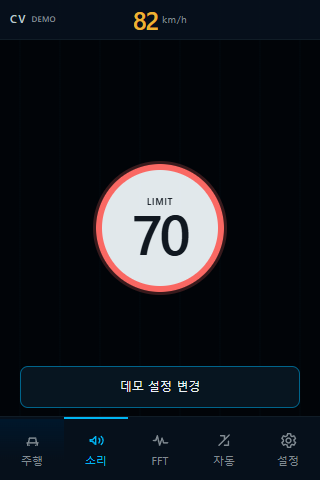
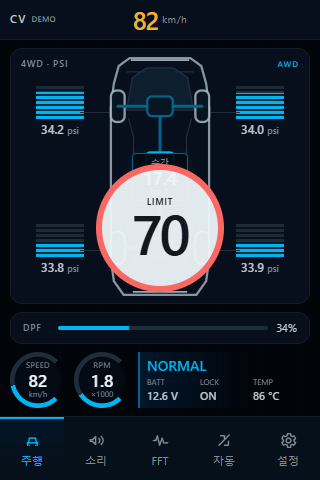
fix: revoke SPORT ownership across gaps and align evidence contracts

diff --git a/tests/automation/test_automation_regressions.c b/tests/automation/test_automation_regressions.c
@@ -3,6 +3,7 @@
 
 #include <assert.h>
 #include <stdio.h>
+#include <stdlib.h>
 #include "automation_test_ticks.h"
 #include <string.h>
 
@@ -437,6 +438,48 @@ static void test_sport_ownership(void)
     assert(output.action == CANVIEW_SPORT_ACTION_NONE);
 }
 
+static void test_sport_gap_revocation(void)
+{
+    const uint32_t gaps[] = {100U, 250U, 251U, 5000U, UINT32_MAX};
+    const canview_drive_mode_t external_modes[] = {
+        CANVIEW_DRIVE_MODE_NORMAL, CANVIEW_DRIVE_MODE_ECO,
+        CANVIEW_DRIVE_MODE_COMFORT, CANVIEW_DRIVE_MODE_SMART,
+    };
+    const canview_auto_sport_config_t config = canview_auto_sport_default_config();
+    for (size_t gap = 0U; gap < sizeof(gaps) / sizeof(gaps[0]); ++gap) {
+        for (size_t mode = 0U; mode < sizeof(external_modes) / sizeof(external_modes[0]); ++mode) {
+            canview_auto_sport_state_t state = {0};
+            canview_auto_sport_input_t input = sport_input();
+            /* 임의 state 주입 없이 ECO에서 정상 진입·feedback으로 소유권을 얻는다. */
+            canview_auto_sport_output_t output =
+                sport_update_for(&state, &config, &input, config.speed_confirm_ms);
+            assert(output.action == CANVIEW_SPORT_ACTION_ENTER);
+            input.current_mode = CANVIEW_DRIVE_MODE_SPORT;
+            output = canview_auto_sport_update(&state, &config, &input, 100U);
+            assert(output.status == CANVIEW_SPORT_ACTIVE);
+            assert(state.owns_sport_mode);
+            assert(state.previous_mode == CANVIEW_DRIVE_MODE_ECO);
+
+            /* 권한 철회는 gap에서도 유효하다. 물리 버튼 이벤트는 누락시킨다. */
+            input.current_mode = external_modes[mode];
+            output = canview_auto_sport_update(&state, &config, &input, gaps[gap]);
+            assert(output.status == CANVIEW_SPORT_MANUAL_HOLD);
+            assert(output.action == CANVIEW_SPORT_ACTION_NONE);
+            assert(!state.owns_sport_mode);
+            assert(state.previous_mode == CANVIEW_DRIVE_MODE_UNKNOWN);
+            input.current_mode = CANVIEW_DRIVE_MODE_SPORT;
+            input.enabled = false;
+            output = canview_auto_sport_update(&state, &config, &input, 100U);
+            assert(output.action == CANVIEW_SPORT_ACTION_NONE);
+            assert(!state.owns_sport_mode);
+            input.enabled = true;
+            output = sport_update_for(&state, &config, &input, config.exit_confirm_ms);
+            assert(output.action == CANVIEW_SPORT_ACTION_NONE);
+            assert(!state.owns_sport_mode);
+        }
+    }
+}
+
 static void test_time_gaps(void)
 {
     const uint32_t gaps[] = {251U, 5000U, UINT32_MAX};
@@ -531,6 +574,11 @@ typedef struct {
 
 int main(int argc, char **argv)
 {
+#ifdef _MSC_VER
+    /* Windows headless CI에서도 실패를 stderr로 기록하고 dialog에서 멈추지 않는다. */
+    (void)_set_error_mode(_OUT_TO_STDERR);
+    (void)_set_abort_behavior(0U, _WRITE_ABORT_MSG | _CALL_REPORTFAULT);
+#endif
     static const regression_case_t cases[] = {
         {"brightness-stale", test_stale_base},
         {"brightness-ramp", test_stale_warning_restore_ramp},
@@ -540,6 +588,7 @@ int main(int argc, char **argv)
         {"headlamp-freshness", test_headlamp_freshness},
         {"sport-feedback", test_sport_feedback},
         {"sport-ownership", test_sport_ownership},
+        {"sport-gap-revocation", test_sport_gap_revocation},
         {"automation-time-gap", test_time_gaps},
         {"command-double-ack", test_command_double_ack},
     };

diff --git a/ui/lvgl/canview_ui.c b/ui/lvgl/canview_ui.c
@@ -1276,10 +1276,10 @@ static void render_overlays(void)
                        ui.model.speed_limit_kph > 0U && ui.model.speed_limit_kph <= 240U;
     const bool warning = limit && speed_valid() && ui.model.speed_limit_warning_active;
     const bool lights = ui.model.headlamp_warning_active && !warning;
-    const bool prominent = drive && warning;
-    lv_obj_set_pos(ui.speed_limit_overlay, prominent ? 96 : 252, prominent ? 156 : 50);
-    lv_obj_set_size(ui.speed_limit_overlay, prominent ? 128 : 56, prominent ? 128 : 56);
-    lv_obj_set_style_border_width(ui.speed_limit_overlay, prominent ? 6 : 4, 0);
+    const bool prominent = warning;
+    lv_obj_set_pos(ui.speed_limit_overlay, prominent ? 96 : 272, prominent ? 156 : 0);
+    lv_obj_set_size(ui.speed_limit_overlay, prominent ? 128 : 36, prominent ? 128 : 36);
+    lv_obj_set_style_border_width(ui.speed_limit_overlay, prominent ? 6 : 3, 0);
     /* 작은 표지에는 숫자만 두어 LIMIT/3자리 수치가 겹치지 않는다. */
     if (prominent) {
         lv_obj_clear_flag(ui.speed_limit_caption, LV_OBJ_FLAG_HIDDEN);
@@ -1300,11 +1300,12 @@ static void render_overlays(void)
     const lv_opa_t opacity = drive ? LV_OPA_COVER : LV_OPA_60;
     lv_obj_set_style_opa(ui.speed_limit_overlay,
         warning && !ui.model.speed_limit_warning_visible ? LV_OPA_30 : opacity, 0);
-    lv_obj_set_pos(ui.headlamp_warning_overlay, drive ? 96 : 212, drive ? 156 : 112);
-    lv_obj_set_size(ui.headlamp_warning_overlay, drive ? 128 : 96, drive ? 128 : 48);
-    lv_obj_set_style_border_width(ui.headlamp_warning_overlay, drive ? 6 : 2, 0);
+    /* 경고는 어느 탭에서도 같은 중앙 면적을 사용하고 touch만 통과시킨다. */
+    lv_obj_set_pos(ui.headlamp_warning_overlay, 96, 156);
+    lv_obj_set_size(ui.headlamp_warning_overlay, 128, 128);
+    lv_obj_set_style_border_width(ui.headlamp_warning_overlay, 6, 0);
     lv_obj_set_style_text_font(ui.headlamp_warning_label,
-        drive && ui.config.metric_font != NULL ? ui.config.metric_font :
+        ui.config.metric_font != NULL ? ui.config.metric_font :
         ui.config.font != NULL ? ui.config.font : LV_FONT_DEFAULT, 0);
     lv_obj_set_style_opa(ui.headlamp_warning_overlay, opacity, 0);
     if (lights) {
@@ -1314,6 +1315,12 @@ static void render_overlays(void)
     }
     lv_obj_set_style_text_color(ui.header_speed_label,
         warning || lights ? CANVIEW_COLOR_WARNING : CANVIEW_COLOR_INK, 0);
+    /* 정상 제한 표지는 header 안에 둔다. 연결 요약과 겹쳐 그리지 않는다. */
+    if (limit && !warning) {
+        lv_obj_add_flag(lv_obj_get_parent(ui.link_label), LV_OBJ_FLAG_HIDDEN);
+    } else {
+        lv_obj_clear_flag(lv_obj_get_parent(ui.link_label), LV_OBJ_FLAG_HIDDEN);
+    }
     lv_obj_move_foreground(ui.speed_limit_overlay);
     lv_obj_move_foreground(ui.headlamp_warning_overlay);
 }

diff --git a/tests/lvgl/test_lvgl.c b/tests/lvgl/test_lvgl.c
@@ -484,11 +484,17 @@ static void test_overlays_and_idle(void)
     for (uint32_t screen = 0U; screen < CANVIEW_UI_SCREEN_COUNT; ++screen) {
         canview_ui_show_screen((canview_ui_screen_t)screen);
         lv_obj_update_layout(ui.root);
-        assert(lv_obj_get_width(ui.speed_limit_overlay) == (screen == 0U ? 128 : 56));
+        assert(lv_obj_get_width(ui.speed_limit_overlay) == 128);
+        assert(lv_obj_get_x(ui.speed_limit_overlay) == 96);
+        assert(lv_obj_get_style_opa(ui.speed_limit_overlay, 0) ==
+               (screen == 0U ? LV_OPA_COVER : LV_OPA_60));
         assert(lv_obj_has_flag(ui.headlamp_warning_overlay, LV_OBJ_FLAG_HIDDEN));
-        lv_point_t point = {.x = 280, .y = 72};
+        lv_point_t point = {.x = 160, .y = 220};
         lv_obj_t *hit = lv_indev_search_obj(lv_scr_act(), &point);
         assert(hit != ui.speed_limit_overlay && hit != ui.speed_limit_label);
+        lv_obj_add_flag(ui.speed_limit_overlay, LV_OBJ_FLAG_HIDDEN);
+        assert(hit == lv_indev_search_obj(lv_scr_act(), &point));
+        lv_obj_clear_flag(ui.speed_limit_overlay, LV_OBJ_FLAG_HIDDEN);
         const uint32_t activities = commands[CANVIEW_UI_CMD_USER_ACTIVITY];
         event_send(ui.nav_buttons[screen], LV_EVENT_PRESSED);
         assert(commands[CANVIEW_UI_CMD_USER_ACTIVITY] == activities + 1U);
@@ -524,8 +530,16 @@ static void test_overlays_and_idle(void)
     assert(canview_ui_current_screen() == CANVIEW_UI_SCREEN_FFT);
     model.speed_quality = CANVIEW_UI_QUALITY_STALE;
     canview_ui_update(&model);
+    lv_obj_update_layout(ui.root);
     assert(!lv_obj_has_flag(ui.headlamp_warning_overlay, LV_OBJ_FLAG_HIDDEN));
     assert(lv_obj_get_style_opa(ui.headlamp_warning_overlay, 0) == LV_OPA_60);
+    assert(lv_obj_get_width(ui.headlamp_warning_overlay) == 128);
+    assert(lv_obj_get_width(ui.speed_limit_overlay) == 36);
+    assert(lv_obj_get_y(ui.speed_limit_overlay) == 0);
+    assert(lv_obj_has_flag(lv_obj_get_parent(ui.link_label), LV_OBJ_FLAG_HIDDEN));
+    model.speed_limit_active = false;
+    canview_ui_update(&model);
+    assert(!lv_obj_has_flag(lv_obj_get_parent(ui.link_label), LV_OBJ_FLAG_HIDDEN));
     puts("PASS: neutral default, warning priority, per-screen transparency/touch, single idle edge, popup activity");
 }
 

diff --git a/tests/automation/test_automation.c b/tests/automation/test_automation.c
@@ -6,6 +6,7 @@
 
 #include <assert.h>
 #include <stdio.h>
+#include <stdlib.h>
 #include "automation_test_ticks.h"
 
 static void test_can_brightness_debounce_and_stale_hold(void)
@@ -500,6 +501,10 @@ static void test_headlamp_warning_uses_rtc_sunset_and_hysteresis(void)
 
 int main(void)
 {
+#ifdef _MSC_VER
+    (void)_set_error_mode(_OUT_TO_STDERR);
+    (void)_set_abort_behavior(0U, _WRITE_ABORT_MSG | _CALL_REPORTFAULT);
+#endif
     assert(CANVIEW_PROTOCOL_MINOR == 2U);
     assert(sizeof(canview_config_record_t) == 8U);
     test_can_brightness_debounce_and_stale_hold();

diff --git a/firmware/communicator/stm32/include/canview_auto_sport.h b/firmware/communicator/stm32/include/canview_auto_sport.h
@@ -107,6 +107,7 @@ int16_t canview_longitudinal_accel_filter_update(
  * @note 호출자는 상태를 직렬화한다. signals_fresh는 mode를 포함한 모든 입력의
  * 검증된 freshness를 뜻한다. ACK나 UI preview 값을 current_mode에 넣지 않는다.
  * 250 ms 초과 gap은 dwell을 초기화하고 해당 tick의 새 명령/feedback 승격을 금지한다.
+ * gap에서도 fresh 비-SPORT 관찰은 기존 자동화 소유권을 철회한다.
  */
 canview_auto_sport_output_t canview_auto_sport_update(
     canview_auto_sport_state_t *state,

diff --git a/firmware/communicator/stm32/src/canview_auto_sport.c b/firmware/communicator/stm32/src/canview_auto_sport.c
@@ -214,7 +214,8 @@ canview_auto_sport_output_t canview_auto_sport_update(
         return make_output(state);
     }
 
-    if (!tick_gap && input->signals_fresh && state->owns_sport_mode &&
+    /* fresh 외부 mode 관찰은 권한 철회다. gap의 새 명령/승격 금지와 독립이다. */
+    if (input->signals_fresh && state->owns_sport_mode &&
         mode_can_be_restored(input->current_mode)) {
         enter_manual_hold(state);
         return make_output(state);

diff --git a/docs/journal.md b/docs/journal.md
@@ -14,16 +14,18 @@
 |---|---|
 | `python -B -X utf8 tools/validate_plan.py` | 상세46·metadata/선행 DAG 오류0 |
 | `python -B -X utf8 -m unittest discover -s tests -p test_plan_validation.py -v` | 부정 fixture 포함35시험 PASS; 작성 중 최초0-test 결과는 통과로 집계하지 않음 |
-| `node tools/ui/check-browser.cjs --screenshots` (Playwright+Edge, 외부망 차단) | 운전자72검사·진단10그룹, JS 오류/외부 요청0; `docs/images/` 재생성 |
-| VS Developer PowerShell → `cmake -S tests/automation -B .tools/automation-main-build -G Ninja -DCMAKE_BUILD_TYPE=Debug`, build, CTest | MSVC19.50 `/W4 /WX /utf-8`, 11/11 PASS |
-| `./tools/ui/validate-lvgl.ps1` | 공식 LVGL8.4.0 `4495f42` 실제 C 링크·수명/상태 회귀. 정확한 최종 결과는 독립 review에서 재확인 |
+| `node tools/ui/check-browser.cjs --screenshots` (Playwright+Edge, 외부망 차단) | 최초 운전자72검사·진단10그룹, 촬영 전환 상태 회귀 추가 뒤 운전자74검사; JS 오류/외부 요청0; `docs/images/` 재생성 |
+| VS Developer PowerShell → `cmake -S tests/automation -B .tools/automation-main-build -G Ninja -DCMAKE_BUILD_TYPE=Debug`, build, CTest | MSVC19.50 `/W4 /WX /utf-8`, 최초11/11·SPORT gap 철회 교차 회귀 추가 뒤12/12 PASS |
+| `./tools/ui/validate-lvgl.ps1` | 공식 LVGL8.4.0 `4495f42` 실제 C 링크·수명/상태 Debug 회귀 PASS. 같은 CMake를 `.tools/lvgl-release-build`/Release로 빌드한 assertion-enabled 회귀도 PASS. 최종 변경은 독립 review에서 재확인 |
 | Python navigation/hardware unittest | 기존16+9시험 PASS; 실제 RF/전기적 HIL 아님 |
 | KiCad10.0.6 Python `tools/hardware/validate_exports.py`, `check_margins.py` | 4보드 export/pad/BOM 정합성 PASS, 저장 ERC0 확인·정적 margin 재검산; PCB/아날로그 승인 아님 |
 | `tools/validate_document_links.py`, `git diff --check` | 상대 링크·공백 검사 PASS, 최종 closure 후 재실행 |
 
 일반 PowerShell의 `setup-windows.ps1 -VerifyOnly`는 CMake PATH 부재로 실패했다. 설치된 VS dev shell의 CMake4.2.3-msvc3/Ninja1.12.1은 host 시험에 사용했지만 잠금 target toolchain CMake4.4.3/Ninja1.13.2/Arm15.3.Rel1을 충족했다고 표시하지 않는다. ESP/STM target, OTA runtime·PCB·전원 차단/HIL·Android/iOS 실기기·최종 한글 font/LCD FPS/8시간 soak·실차 evidence는 미실행이다. CodeGraph 미초기화로 `rg`·정본 직접 읽기·compiler/test로 추적했다.
 
-최종 독립 reviewer2명은 작업자와 별도로 동일 immutable candidate를 검토한다. 원문·finding 반영·post-fix 재검토와 PR merge 결과는 [새 리뷰 기록](reviews/README.md)에 보존한다. 이 일지나 prototype으로 차량 CAN TX를 허용하지 않는다.
+작업자와 별도의 독립 reviewer2명이 동일 immutable `d078437`을 검토했다. 최초 A는 PASS, B는 gap에서 SPORT 소유권 철회 누락(P1)·evidence enum 정본 충돌(P2)·경고 촬영 시점(P3)을 발견했다. 두 원문을 먼저 저장한 뒤 교차 검토했다. gap에서도 fresh 외부 mode 관찰은 권한을 철회하도록 수정하고, UNKNOWN 포함 evidence 등급과 REJECTED 심사 상태를 분리했다. 촬영 문제와 모든 LVGL 탭의 경고 면적도 보완했다.
+
+새 `sport-gap-revocation`은 정상 ECO→SPORT 진입 후 4개 외부 mode×5개 elapsed 경계를 교차한다. 수정 전 assertion 실패가 Windows CRT dialog에서 대기해 해당 시험 process만 종료했고, headless stderr/abort 설정과 CTest 30초 timeout을 추가했다. 수정 뒤20경우와 전체12시험을 통과했다. 최종 post-fix 재검토·원문·finding disposition과 PR 결과는 [새 리뷰 기록](reviews/README.md)에 보존한다. 이 일지나 prototype으로 차량 CAN TX를 허용하지 않는다.
 
 ## 2026-09-06 (codex, 독립 OTA·N16R8 회로)
 

diff --git a/docs/architecture/implementation-readiness.md b/docs/architecture/implementation-readiness.md
@@ -386,8 +386,13 @@ runtime 품질과 검증 증거를 하나의 enum으로 섞지 않는다.
 
 - `signal_quality`: `VALID`, `STALE`, `UNAVAILABLE`, `OUT_OF_RANGE`, `FAULT`
 - `evidence_grade`: `UNKNOWN`, `CANDIDATE`, `OBSERVED`, `VERIFIED`
+- candidate 저장소의 별도 `review_status`: `PENDING`, `APPROVED`, `REJECTED`
 
 운전자 UI에 숫자를 표시하려면 `quality == VALID && evidence_grade == VERIFIED`여야 한다. `OBSERVED` 이하 값은 Signal Lab에서만 볼 수 있다. derived signal의 quality는 dependency 중 가장 나쁜 runtime 품질을 따르고 evidence는 가장 낮은 dependency grade보다 높아질 수 없다.
+
+위 `evidence_grade` 네 값이 공통 정본이며 `REJECTED`를 다섯 번째 등급이나 `UNKNOWN`의 별칭으로 추가하지 않는다. `UNKNOWN`은 아직 근거가 없는 상태다. `review_status`는 특정 candidate revision의 심사 결과로, `PENDING`이 기본이고 `APPROVED`도 검증 등급·서명 profile gate를 대신하지 않는다. `REJECTED`는 반대 evidence/제외 사유를 남긴 심사 결과이며 audit에는 기존 grade를 보존할 수 있지만 operational export/adapter 입력으로 사용할 수 없다. 재심사는 새 revision과 새 승인 근거가 필요하다.
+
+schema의 unknown enum 또는 승인되지 않은 descriptor는 exhaustive adapter에서 `UNAVAILABLE`로 닫는다. 심사 상태를 wire quality/evidence로 숫자 cast하지 않는다. derived 입력 하나라도 `UNKNOWN`이거나 사용할 수 없는 revision이면 VERIFIED 값이 생성되지 않는다. `REJECTED` 후보에서 derived 값을 만들거나 기존 서명을 새 revision에 재사용하는 것도 거절한다. 이 규칙은 승인된 profile에서 데이터를 소비하는 경계이며 Diagnostic Bridge가 기존 차량 profile·lease를 직접 수정할 권한을 뜻하지 않는다.
 
 `VERIFIED` 승격에는 서로 다른 ignition cycle의 반복 capture, marker/evidence, DBC/decoder golden vector, 단위·방향·range·stale 기준, 반례 검토가 필요하다. drop/gap이 수용 한도를 넘는 capture는 승격 증거가 될 수 없다.
 

diff --git a/docs/vehicle/target-2017-tucson.md b/docs/vehicle/target-2017-tucson.md
@@ -94,7 +94,7 @@ upstream Hyundai 차량 정의는 일반 Tucson 플랫폼에 `hyundai_can_genera
 | C | upstream 정의와 이름만 일치하고 실차 의미 검증이 안 됨 |
 | X | 해당 차량 캡처에서 보이지 않거나 다른 bus/bitrate로 확인됨 |
 
-이 A/B/C/X는 과거 조사표의 지역적 등급이며 다른 문서의 문자 등급과 자동 변환하지 않는다. runtime은 [T-005](../tasks/T-005-canonical-model.md)의 `CANDIDATE/OBSERVED/VERIFIED/REJECTED`와 독립 freshness를 사용한다. 기본 운전자 화면은 별도 ignition cycle 반복·독립 기준·unit/range/stale·반례와 승인 profile gate를 통과한 VERIFIED 값만 표시한다. B/C 후보는 Signal Lab에서만 읽고 일반 UI에는 `—`다. X의 미지원/반대 evidence와 오래된 sample(STALE)은 서로 다른 상태이며 한 번의 미수신만으로 차량 미탑재를 확정하지 않는다.
+이 A/B/C/X는 과거 조사표의 지역적 등급이며 다른 문서의 문자 등급과 자동 변환하지 않는다. runtime은 [구현 준비 §9.2](../architecture/implementation-readiness.md#92-evidence와-품질)의 evidence 등급과 독립 freshness를 사용하며 [T-005](../tasks/T-005-canonical-model.md)가 이를 구현한다. `UNKNOWN`(근거 없음)과 별도 candidate 심사 결과 `REJECTED`(제외/반대 근거)를 같은 등급으로 합치지 않는다. 기본 운전자 화면은 별도 ignition cycle 반복·독립 기준·unit/range/stale·반례와 승인 profile gate를 통과한 VERIFIED 값만 표시한다. B/C 후보는 Signal Lab에서만 읽고 일반 UI에는 `—`다. X의 미지원/반대 evidence와 오래된 sample(STALE)은 서로 다른 상태이며 한 번의 미수신만으로 차량 미탑재를 확정하지 않는다.
 
 기능별 후보, 인포테인먼트·BCM·IPS·도어 잠금의 위험도와 실차 검증 순서는 [CAN 신호 후보 카탈로그](signal-catalog.md)에 정리한다.
 

diff --git a/docs/architecture/diagnostic-bridge.md b/docs/architecture/diagnostic-bridge.md
@@ -306,7 +306,8 @@ frame의 유일 식별자는 다음 tuple이다.
 |---|---|---|
 | `candidate_id` | UUID | 예 |
 | `name` | UTF-8, 1–48자 | 예 |
-| `status` | `CANDIDATE/OBSERVED/VERIFIED/REJECTED` | 예 |
+| `evidence_grade` | [공통 evidence 등급](implementation-readiness.md#92-evidence와-품질) | 예 |
+| `review_status` | 같은 정본의 candidate revision 심사 상태 | 예 |
 | `bus_id`, `can_id`, `extended`, `dlc` | frame identity | 예 |
 | `start_bit`, `bit_length` | 0–63, 1–64 | 예 |
 | `byte_order` | `INTEL/MOTOROLA` | 예 |
@@ -324,7 +325,9 @@ Browser decoder는 Controller decoder와 같은 Intel/Motorola bit 규칙, sign 
 
 ### 9.4 evidence와 등급
 
-다음 C/B/A/X는 이 진단 문서의 과거 표시 등급이다. 차량 catalog의 문자 등급을 이 표로 자동 변환하지 않는다. 구현 정본은 [T-005](../tasks/T-005-canonical-model.md)의 `CANDIDATE/OBSERVED/VERIFIED/REJECTED` evidence enum이며 freshness는 별도 축이다.
+다음 C/B/A/X는 이 진단 문서의 과거 표시 등급이다. 차량 catalog의 문자 등급을 이 표로 자동 변환하지 않는다. 공통 enum은 [구현 준비 §9.2](implementation-readiness.md#92-evidence와-품질)가 정본이고 [T-005](../tasks/T-005-canonical-model.md)가 생성·변환한다. evidence 등급·runtime 품질·candidate 심사 상태는 서로 다른 축이다. 제외(`REJECTED`)는 심사 상태이지 evidence 등급이 아니다.
+
+과거 단일 `status` descriptor와 로컬 DEMO export의 `status/grade`는 위 공통 model이 아니다. T-403의 버전 명시 migration·부정 fixture 이전에는 operational 입력으로 import하지 않으며 문자열/숫자만 같다고 암묵 변환하지 않는다.
 
 | UI 상태 | 문서 등급 | 필요한 증거 |
 |---|---|---|

diff --git a/docs/architecture/automation.md b/docs/architecture/automation.md
@@ -223,7 +223,7 @@ ARMED
 - `MANUAL_HOLD`는 자동 기능을 껐다 다시 켜는 명시적 재arm 또는 ignition cycle까지 유지한다.
 - 기어·브레이크·ABS/TCS/ESC·mode·link·lease 중 하나라도 유효하지 않으면 `INHIBITED`이며 새 command를 만들지 않는다.
 - pending 완료에는 freshness와 local safety가 필요하다. stale mode가 SPORT/previous_mode와 같아도 완료나 소유권 확보로 승격하지 않는다. deadline 이상 경과한 tick은 feedback보다 timeout을 먼저 판정하고 `MANUAL_HOLD`로 가며, 명시적 재arm 없이 재시도하지 않는다.
-- 자동화가 소유하던 SPORT와 다른 유효 mode가 관찰되면 물리 버튼 이벤트가 누락됐어도 소유권·previous snapshot을 버리고 `MANUAL_HOLD`로 간다. 그 tick에 복귀 pulse를 만들지 않는다.
+- 자동화가 소유하던 SPORT와 다른 유효 mode가 관찰되면 물리 버튼 이벤트가 누락됐어도 소유권·previous snapshot을 버리고 `MANUAL_HOLD`로 간다. 이는 권한 철회이므로 scheduler gap에도 수행하며 새 명령/feedback 승격 금지와 혼동하지 않는다. 그 tick과 이후 사용자가 선택한 SPORT에서 오래된 snapshot으로 복귀 pulse를 만들지 않는다.
 - link loss나 bus fault 중에는 복귀를 시도하지 않는다. 상태가 다시 신뢰 가능해진 뒤 현재 mode와 snapshot을 대조한다.
 
 현재 core의 1,500 ms pending timer는 action 생성 다음 tick부터 계산하는 host 상태기계 시간이다. target executor의 첫 성공한 physical TX-complete 시각과 transaction feedback 연결은 T-106/T-305에서 구현해야 한다. core의 `ACTIVE`를 인증된 wire `COMPLETED`나 차량 TX gate 통과로 표시하지 않는다.
